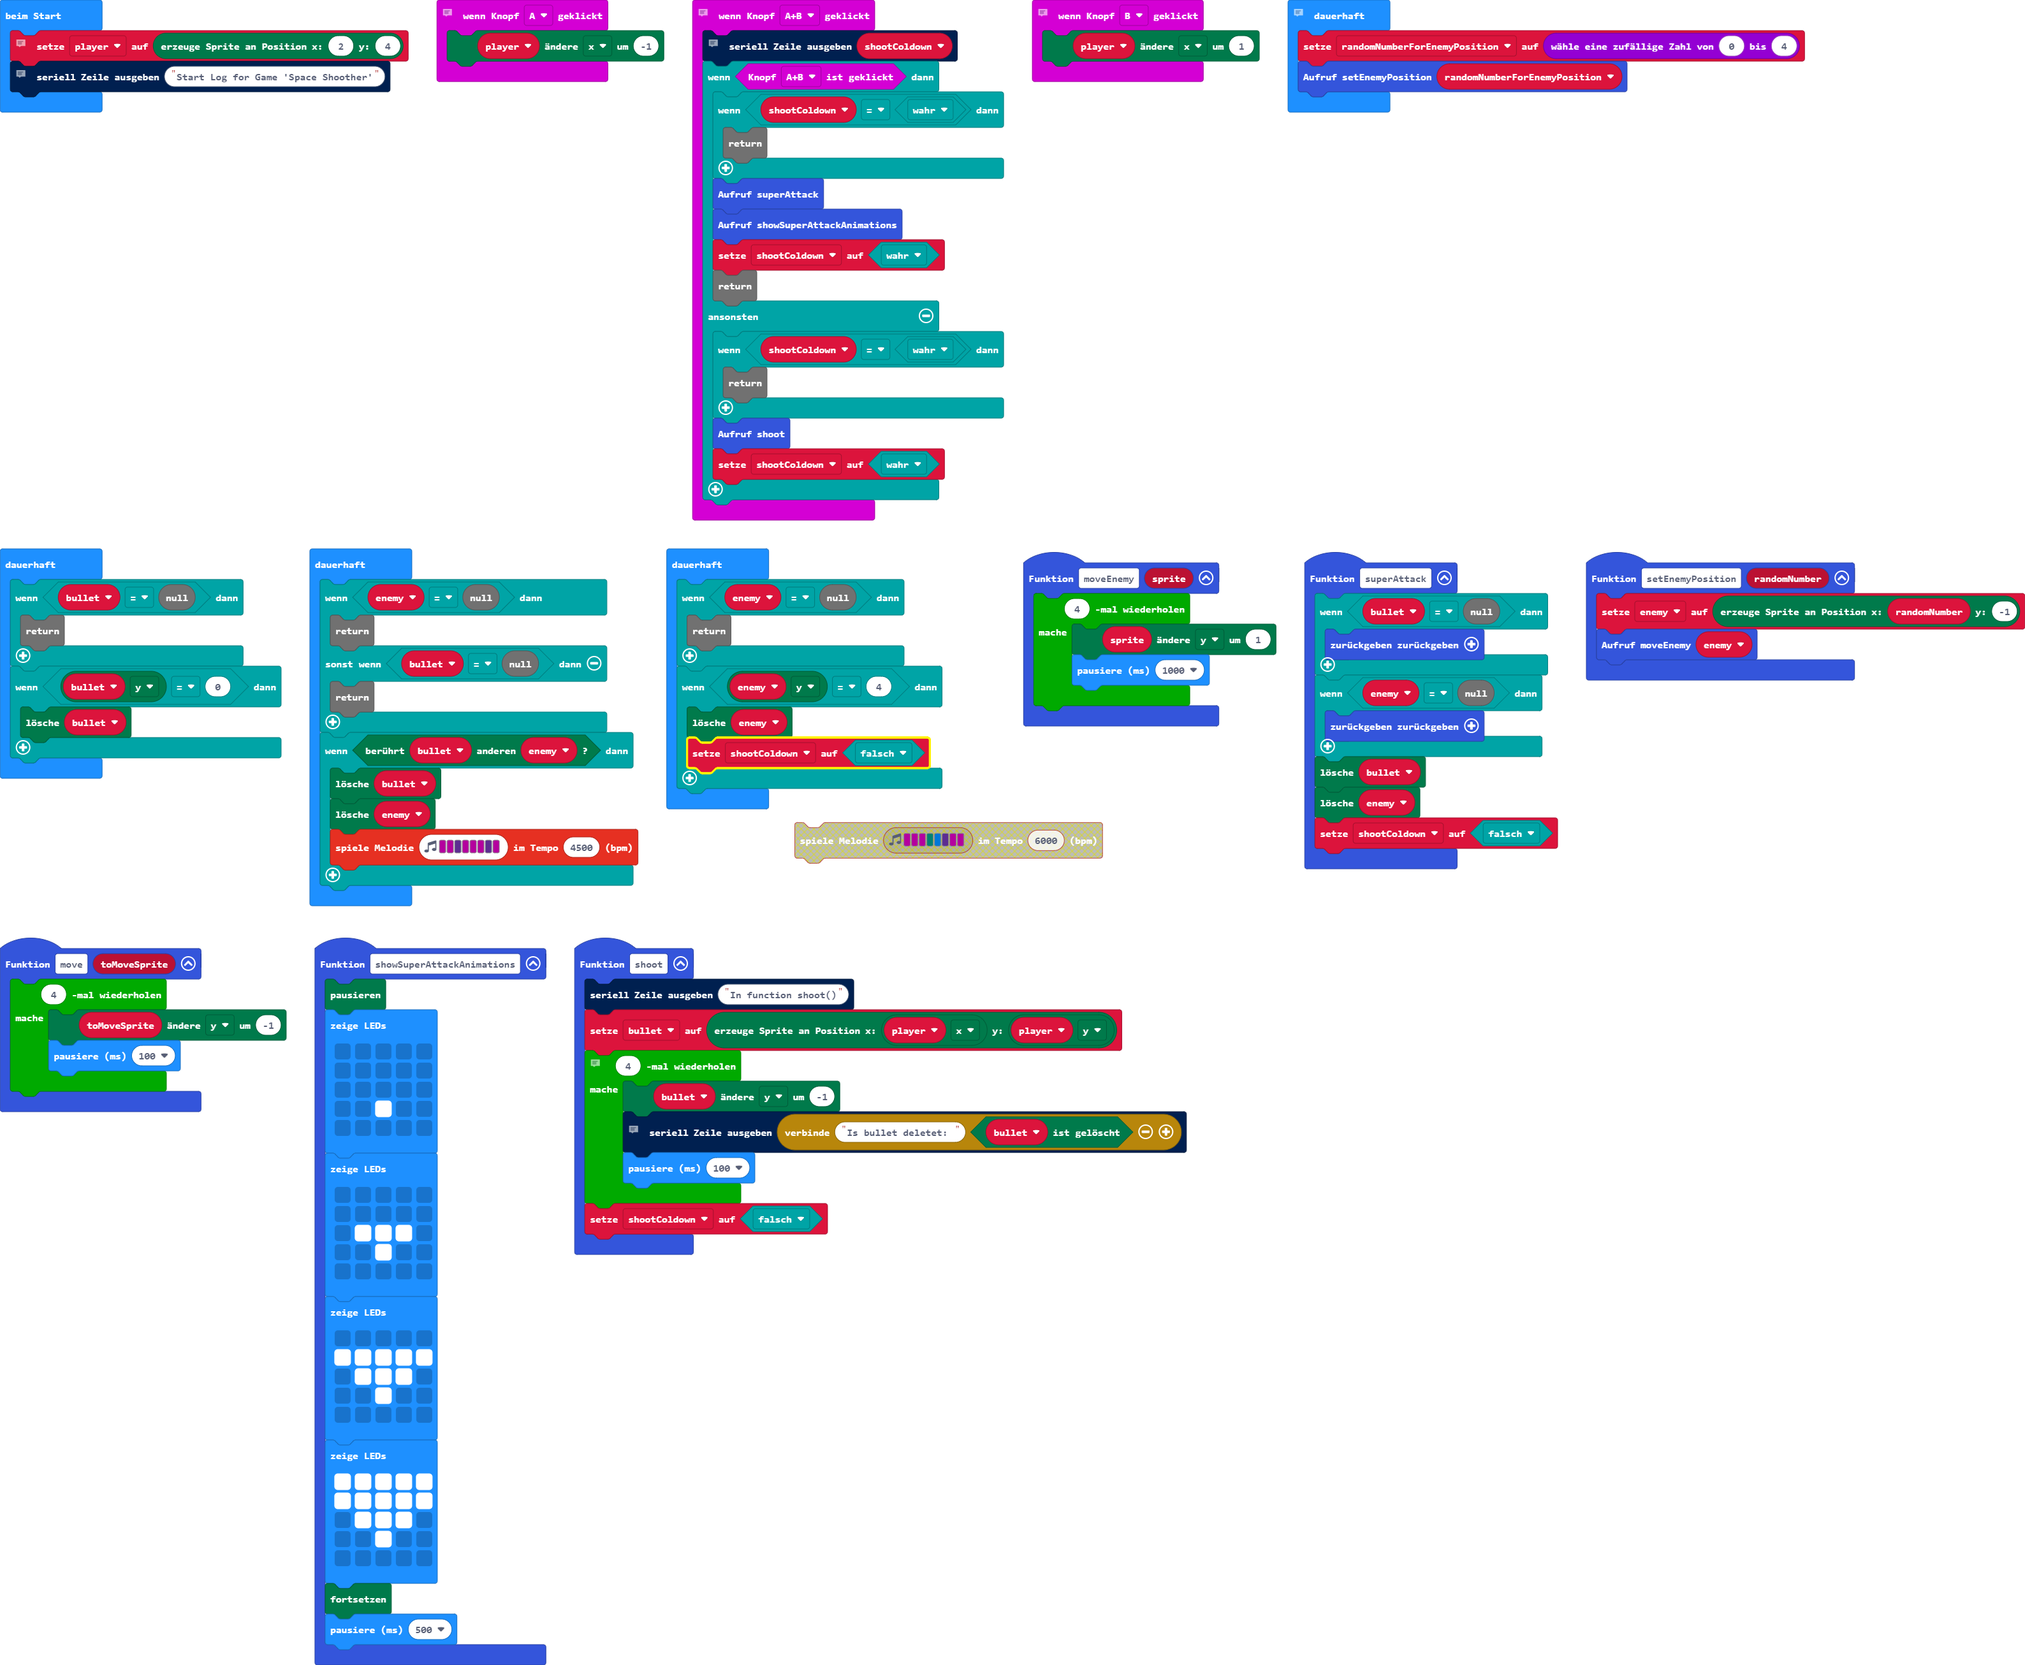
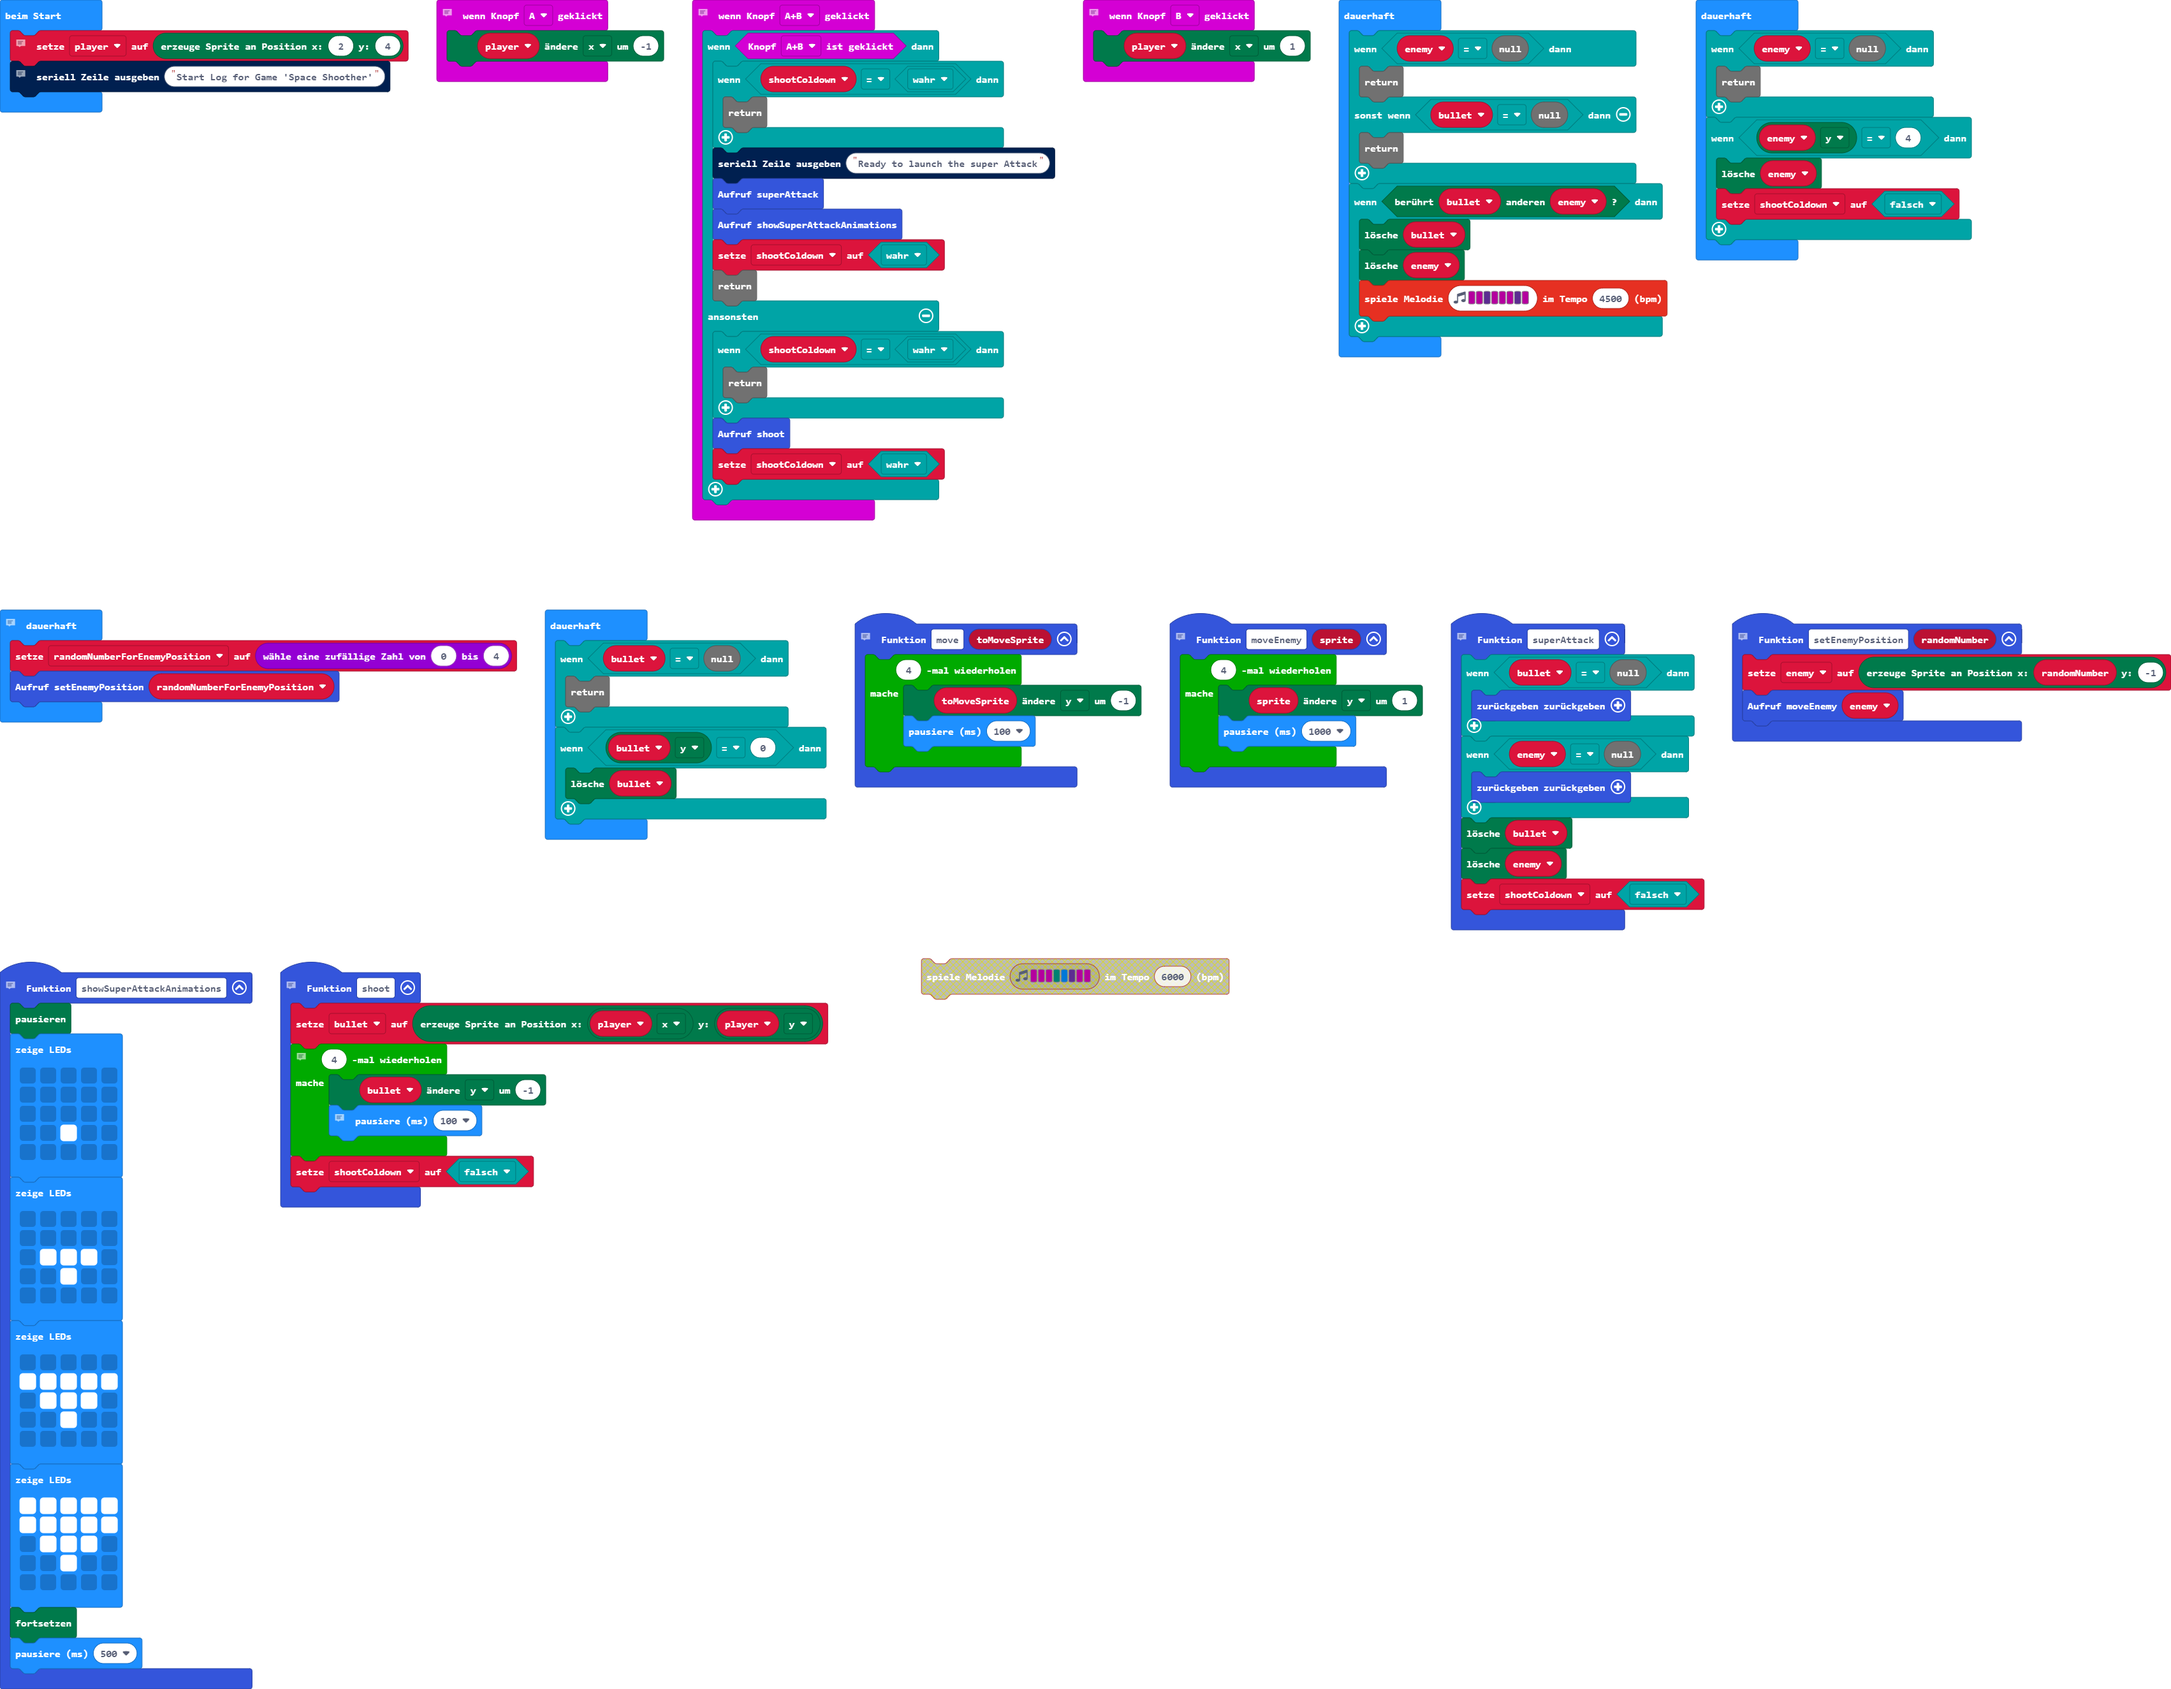
Aktualisiere pxt.json, main.blocks, main.ts

Changed region(s): [[0.0, 0.0, 1.0, 1.0]]

diff --git a/main.ts b/main.ts
@@ -2,7 +2,7 @@
 input.onButtonPressed(Button.A, function () {
     player.change(LedSpriteProperty.X, -1)
 })
-//Animation for the Super Attack
+// Animation for the Super Attack
 function showSuperAttackAnimations () {
     game.pause()
     basic.showLeds(`
@@ -36,27 +36,25 @@ function showSuperAttackAnimations () {
     game.resume()
     basic.pause(500)
 }
-//Moves an Enemy
+// Moves an Enemy
 function moveEnemy (sprite: game.LedSprite) {
     for (let index = 0; index < 4; index++) {
         sprite.change(LedSpriteProperty.Y, 1)
         basic.pause(1000)
     }
 }
-//Change the Y - Coordinate of the bullet to simulate a shoot Animation
+// Change the Y - Coordinate of the bullet to simulate a shoot Animation
 function shoot () {
-    serial.writeLine("In function shoot()")
     bullet = game.createSprite(player.get(LedSpriteProperty.X), player.get(LedSpriteProperty.Y))
     // music.playMelody("C5 B A G F F F F ", 5000)
     for (let index = 0; index < 4; index++) {
         bullet.change(LedSpriteProperty.Y, -1)
         // bullet.setBrightness(80)
-        serial.writeLine("Is bullet deletet: " + bullet.isDeleted())
         basic.pause(100)
     }
     shootColdown = false
 }
-//Lunch the SuperAttack
+// Lunch the SuperAttack
 function superAttack () {
     if (bullet == null) {
         return
@@ -70,12 +68,11 @@ function superAttack () {
 }
 // Input for Button 'AB'
 input.onButtonPressed(Button.AB, function () {
-    // fehler in shoot()
-    serial.writeLine("" + (shootColdown))
     if (input.buttonIsPressed(Button.AB)) {
         if (shootColdown == true) {
             return
         }
+        serial.writeLine("Ready to launch the super Attack")
         superAttack()
         showSuperAttackAnimations()
         shootColdown = true
@@ -92,19 +89,18 @@ input.onButtonPressed(Button.AB, function () {
 input.onButtonPressed(Button.B, function () {
     player.change(LedSpriteProperty.X, 1)
 })
-//Moves a Sprite
+// Moves a Sprite
 function move (toMoveSprite: game.LedSprite) {
     for (let index = 0; index < 4; index++) {
         toMoveSprite.change(LedSpriteProperty.Y, -1)
         basic.pause(100)
     }
 }
-//Sets the Position of an Enemy
+// Sets the Position of an Enemy
 function setEnemyPosition (randomNumber: number) {
     enemy = game.createSprite(randomNumber, -1)
     moveEnemy(enemy)
 }
-//Create other values
 let randomNumberForEnemyPosition = 0
 let enemy: game.LedSprite = null
 let shootColdown = false
@@ -114,19 +110,6 @@ let player: game.LedSprite = null
 player = game.createSprite(2, 4)
 // Log
 serial.writeLine("Start Log for Game 'Space Shoother'")
-// Forever function for spawning Enemys with a random Position
-basic.forever(function () {
-    randomNumberForEnemyPosition = randint(0, 4)
-    setEnemyPosition(randomNumberForEnemyPosition)
-})
-basic.forever(function () {
-    if (bullet == null) {
-        return
-    }
-    if (bullet.get(LedSpriteProperty.Y) == 0) {
-        bullet.delete()
-    }
-})
 basic.forever(function () {
     if (enemy == null) {
         return
@@ -146,5 +129,18 @@ basic.forever(function () {
     if (enemy.get(LedSpriteProperty.Y) == 4) {
         enemy.delete()
         shootColdown = false
+    }
+})
+// Forever function for spawning Enemys with a random Position
+basic.forever(function () {
+    randomNumberForEnemyPosition = randint(0, 4)
+    setEnemyPosition(randomNumberForEnemyPosition)
+})
+basic.forever(function () {
+    if (bullet == null) {
+        return
+    }
+    if (bullet.get(LedSpriteProperty.Y) == 0) {
+        bullet.delete()
     }
 })
